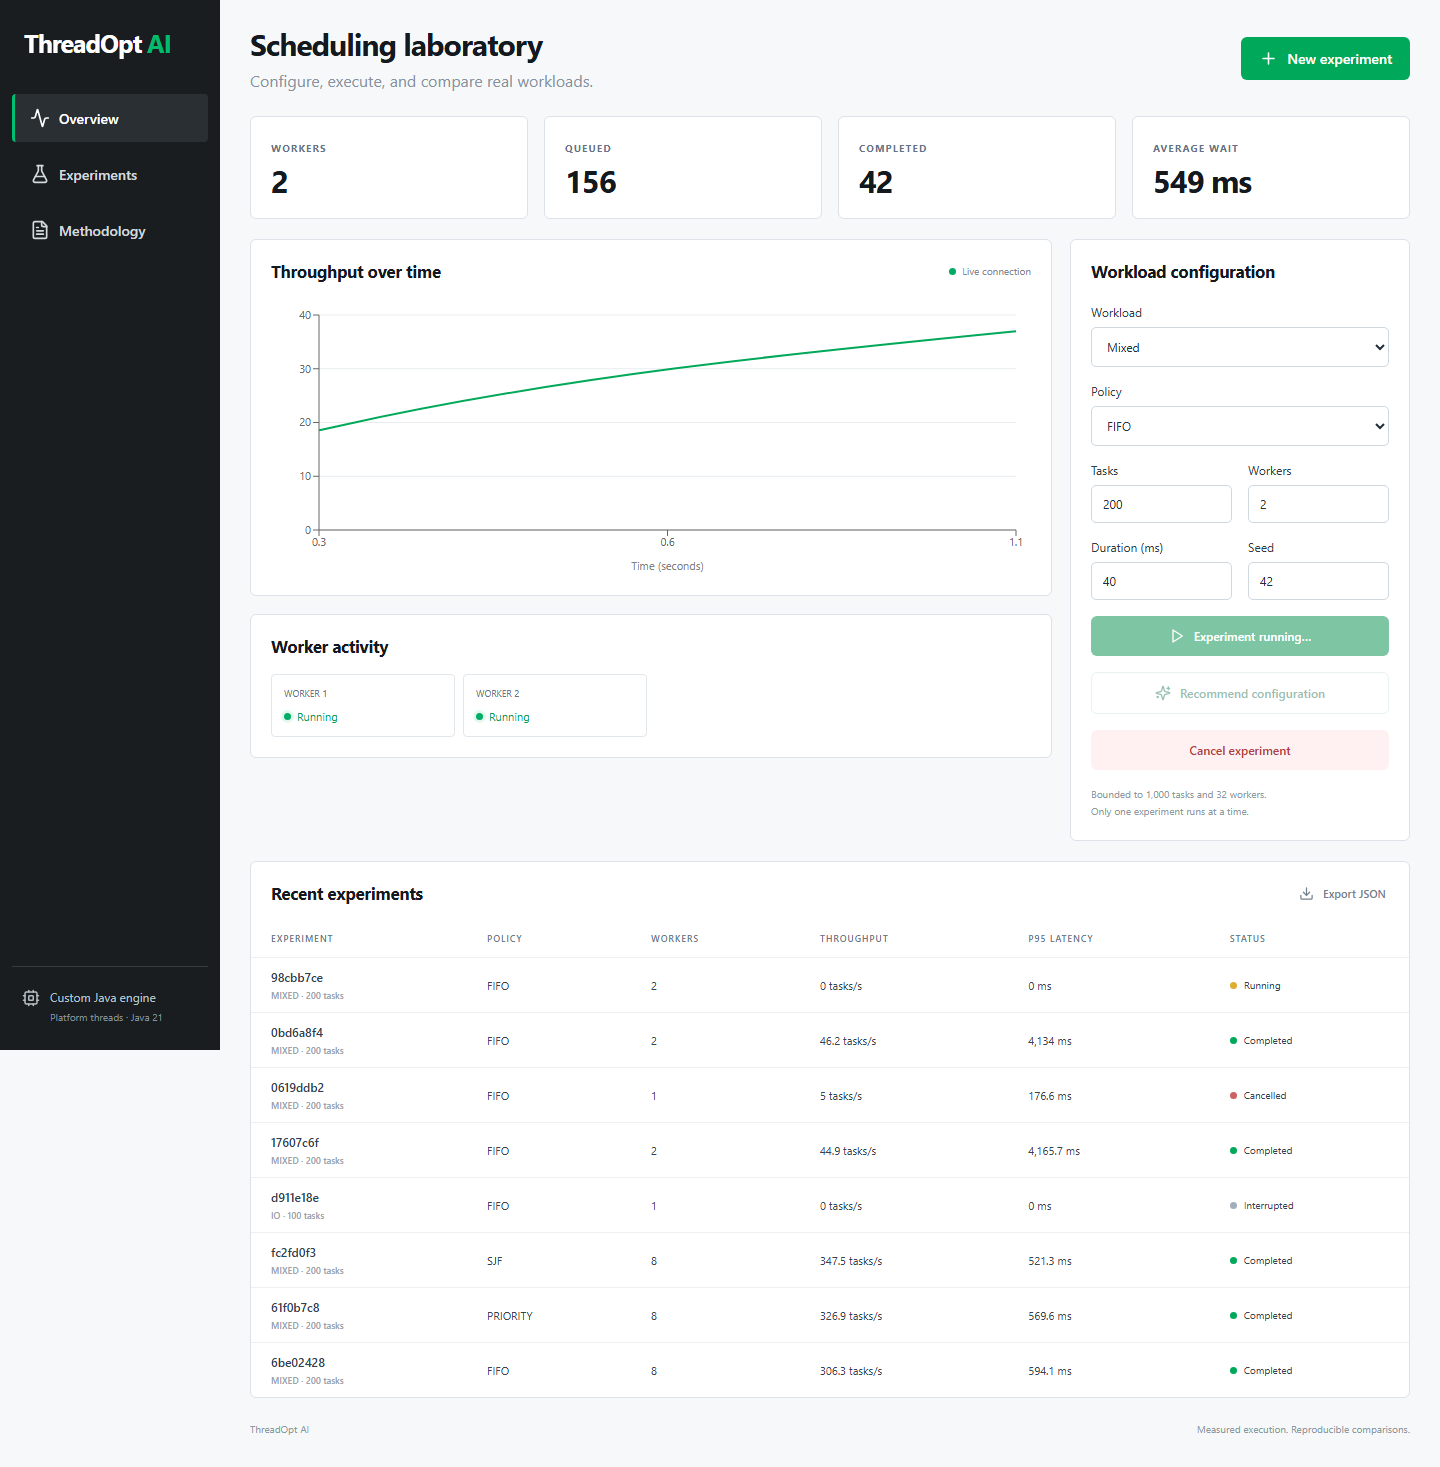
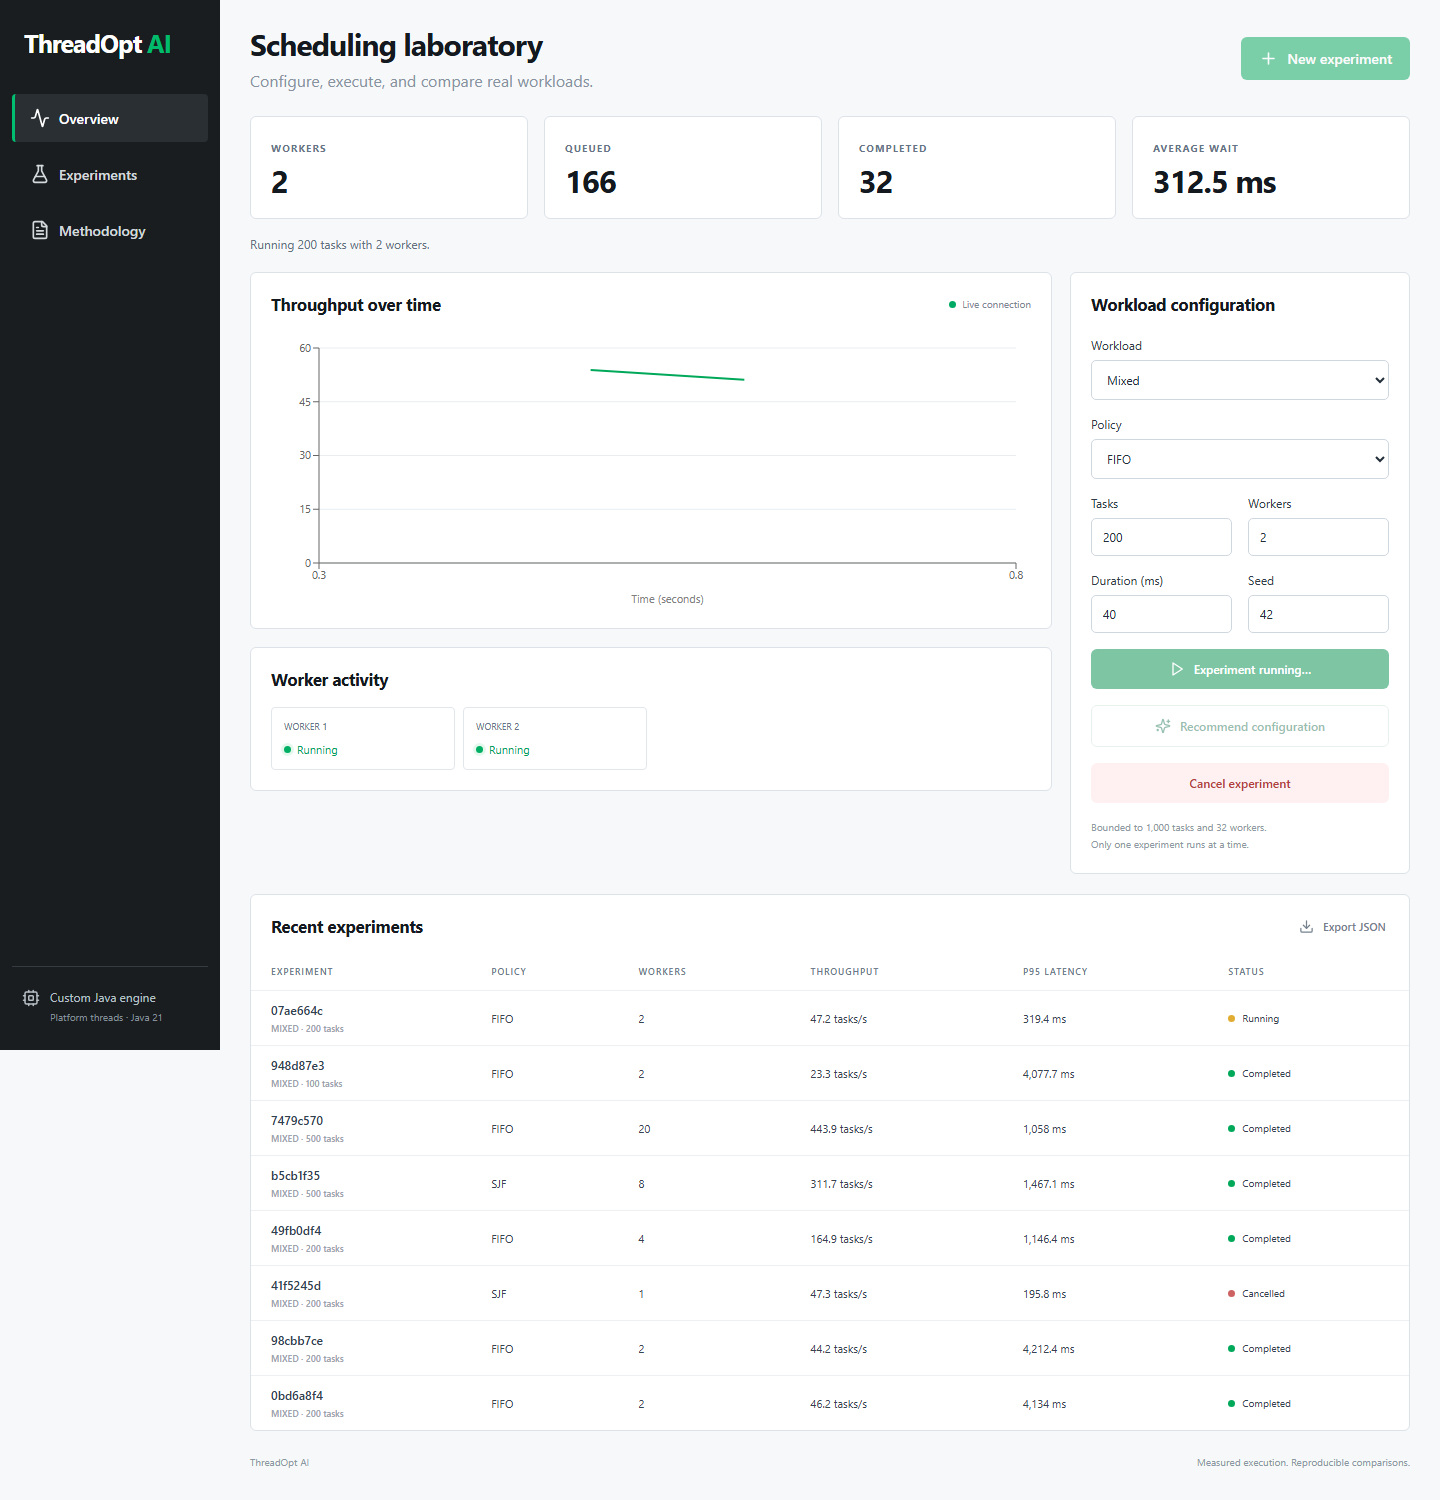
Clean up display text and record dashboard regression checks

diff --git a/frontend/src/main.tsx b/frontend/src/main.tsx
@@ -283,7 +283,7 @@ function App() {
         </div>
         <button className="full" type="submit" disabled={busy || running}>
           <Play size={16} />
-          {running ? "Experiment runningâ€¦" : "Run experiment"}
+          {running ? "Experiment running…" : "Run experiment"}
         </button>
         <button
           type="button"
@@ -311,12 +311,12 @@ function App() {
       {advice && (
         <div className="advice">
           <strong>
-            {advice.recommended_workers} workers Â· {advice.recommended_policy}
+            {advice.recommended_workers} workers · {advice.recommended_policy}
           </strong>
           <span>
             {advice.source}
             {advice.predicted_p95_latency_ms !== undefined
-              ? " Â· predicted P95 " +
+              ? " · predicted P95 " +
                 number(advice.predicted_p95_latency_ms) +
                 " ms"
               : ""}
@@ -358,7 +358,7 @@ function App() {
         <div className="sidebar-bottom">
           <Cpu size={18} />
           <div>
-            Custom Java engine<small>Platform threads Â· Java 21</small>
+            Custom Java engine<small>Platform threads · Java 21</small>
           </div>
         </div>
       </aside>
@@ -628,7 +628,7 @@ function App() {
                             >
                               {r.id.slice(0, 8)}
                               <small>
-                                {r.config.workload} Â· {r.config.tasks} tasks
+                                {r.config.workload} · {r.config.tasks} tasks
                               </small>
                             </button>
                           </td>

diff --git a/docs/validation.md b/docs/validation.md
@@ -55,3 +55,7 @@ Automatic online adaptation, JMH microbenchmarks and multi-user account isolatio
 ## Remote CI evidence
 
 All four jobs (Java, Python, frontend, containers) passed for code commit `97636fa`. Run: https://github.com/KARTHIKEYAN124/threadopt-ai/actions/runs/40214940017 . The container smoke test passed through Nginx on the Docker network with PostgreSQL and the bundled trained model. Public hosting and real certificate/domain issuance remain pending.
+
+## Idle metrics and new-experiment regression
+
+The dashboard shows configured workers while idle, an explicit Empty queue, and the latest saved result rather than treating missing/live-only observations as zero. HTTP polling backs up WebSocket updates. The header + button opens a native, keyboard-accessible configuration dialog instead of focusing Tasks. Targeted Playwright checks passed at 1440x1050 and 390x844: dialog creation/run/close, nonzero queue during real execution, completed-result persistence across reload, history without WebSockets, and no horizontal overflow or browser errors. The production build and full browser smoke flow also passed.
